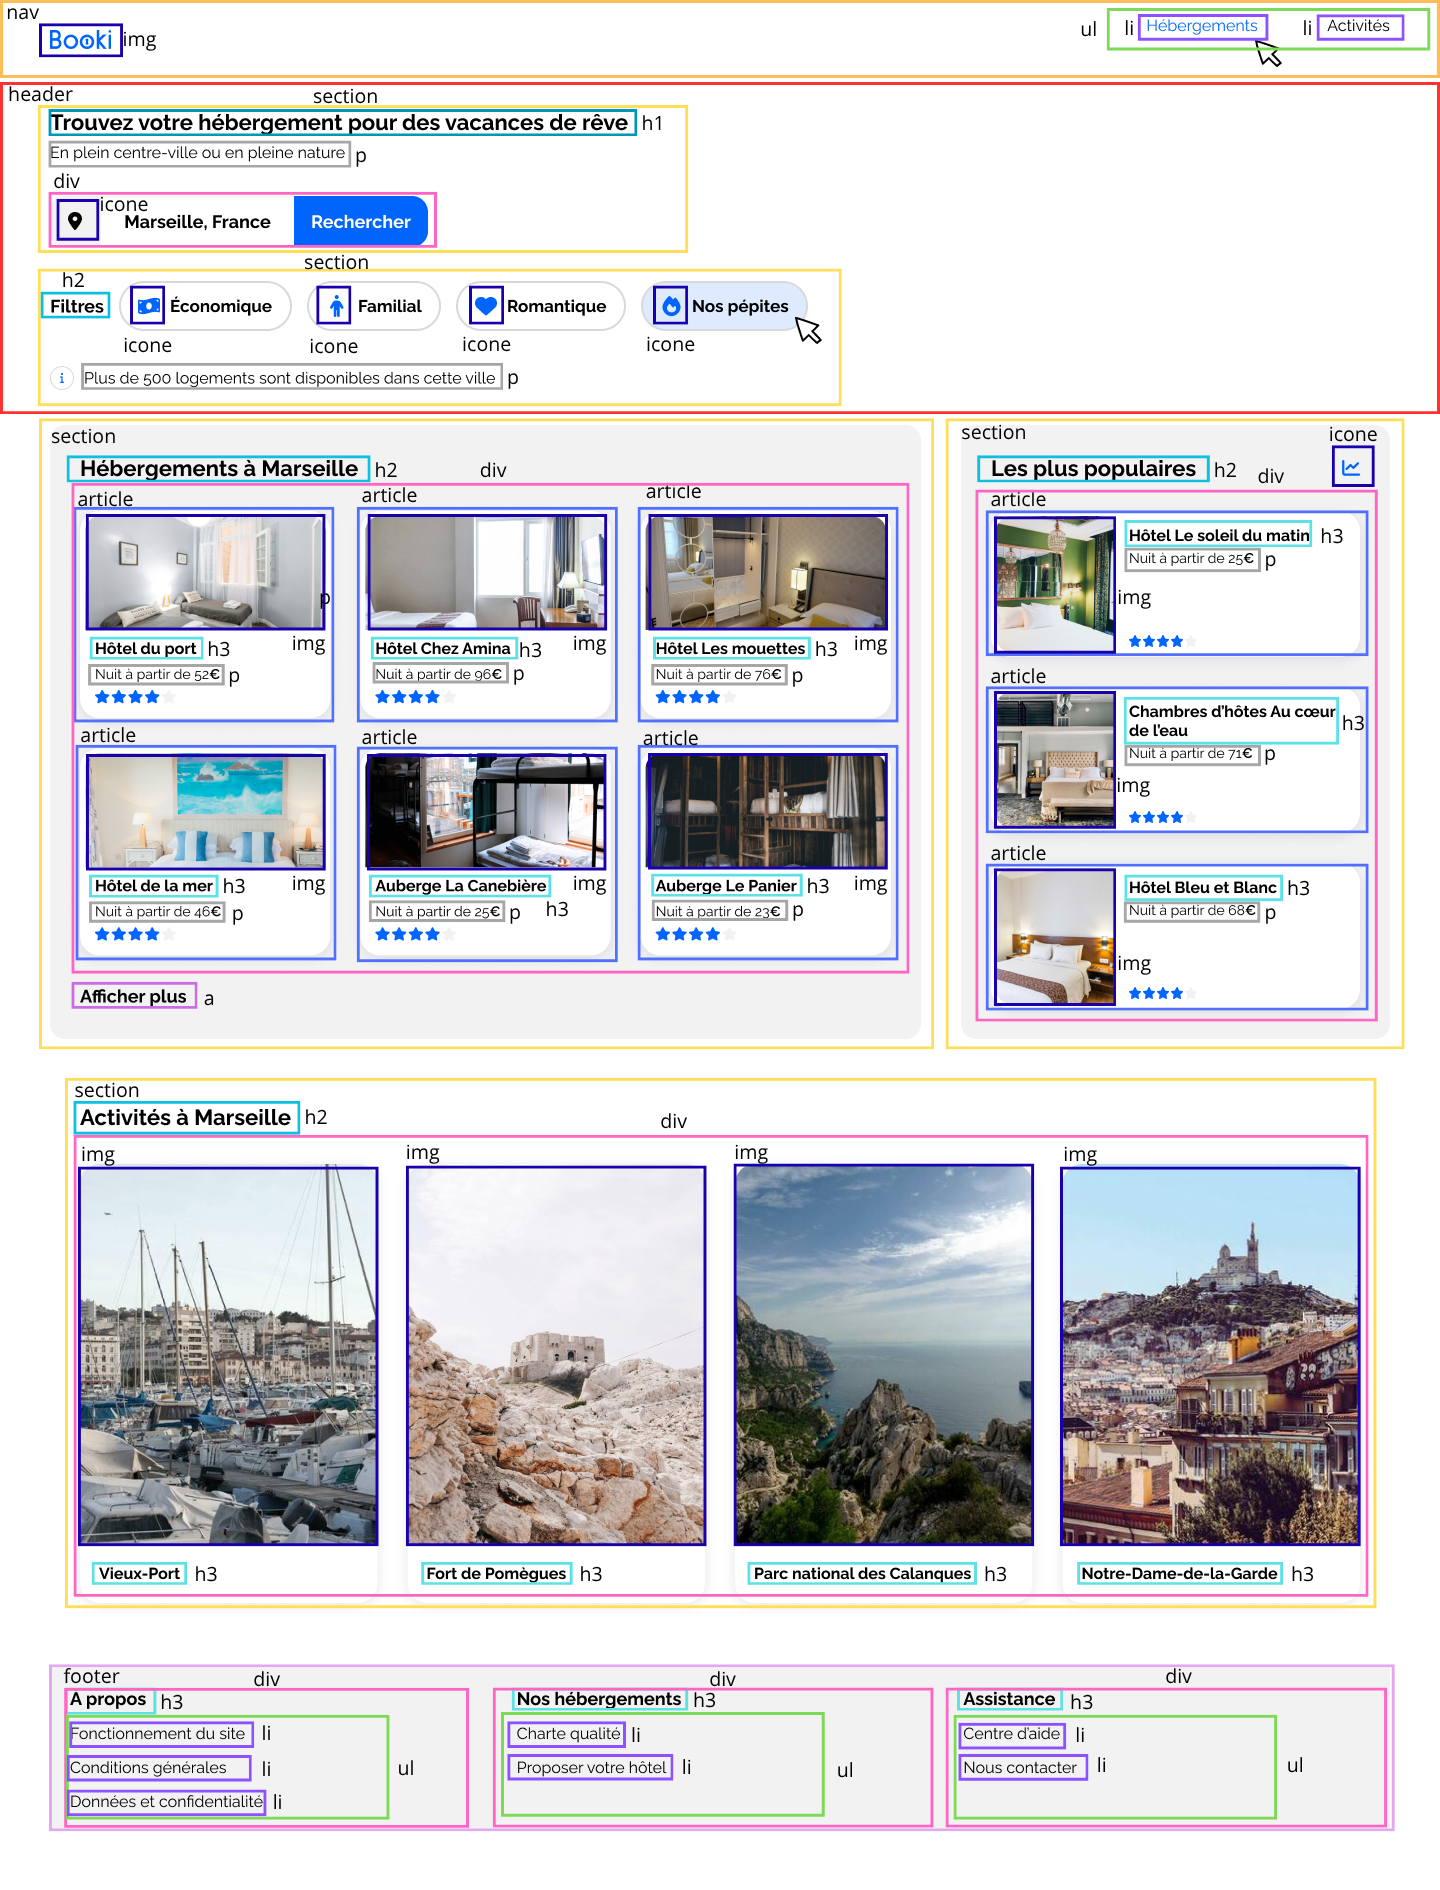
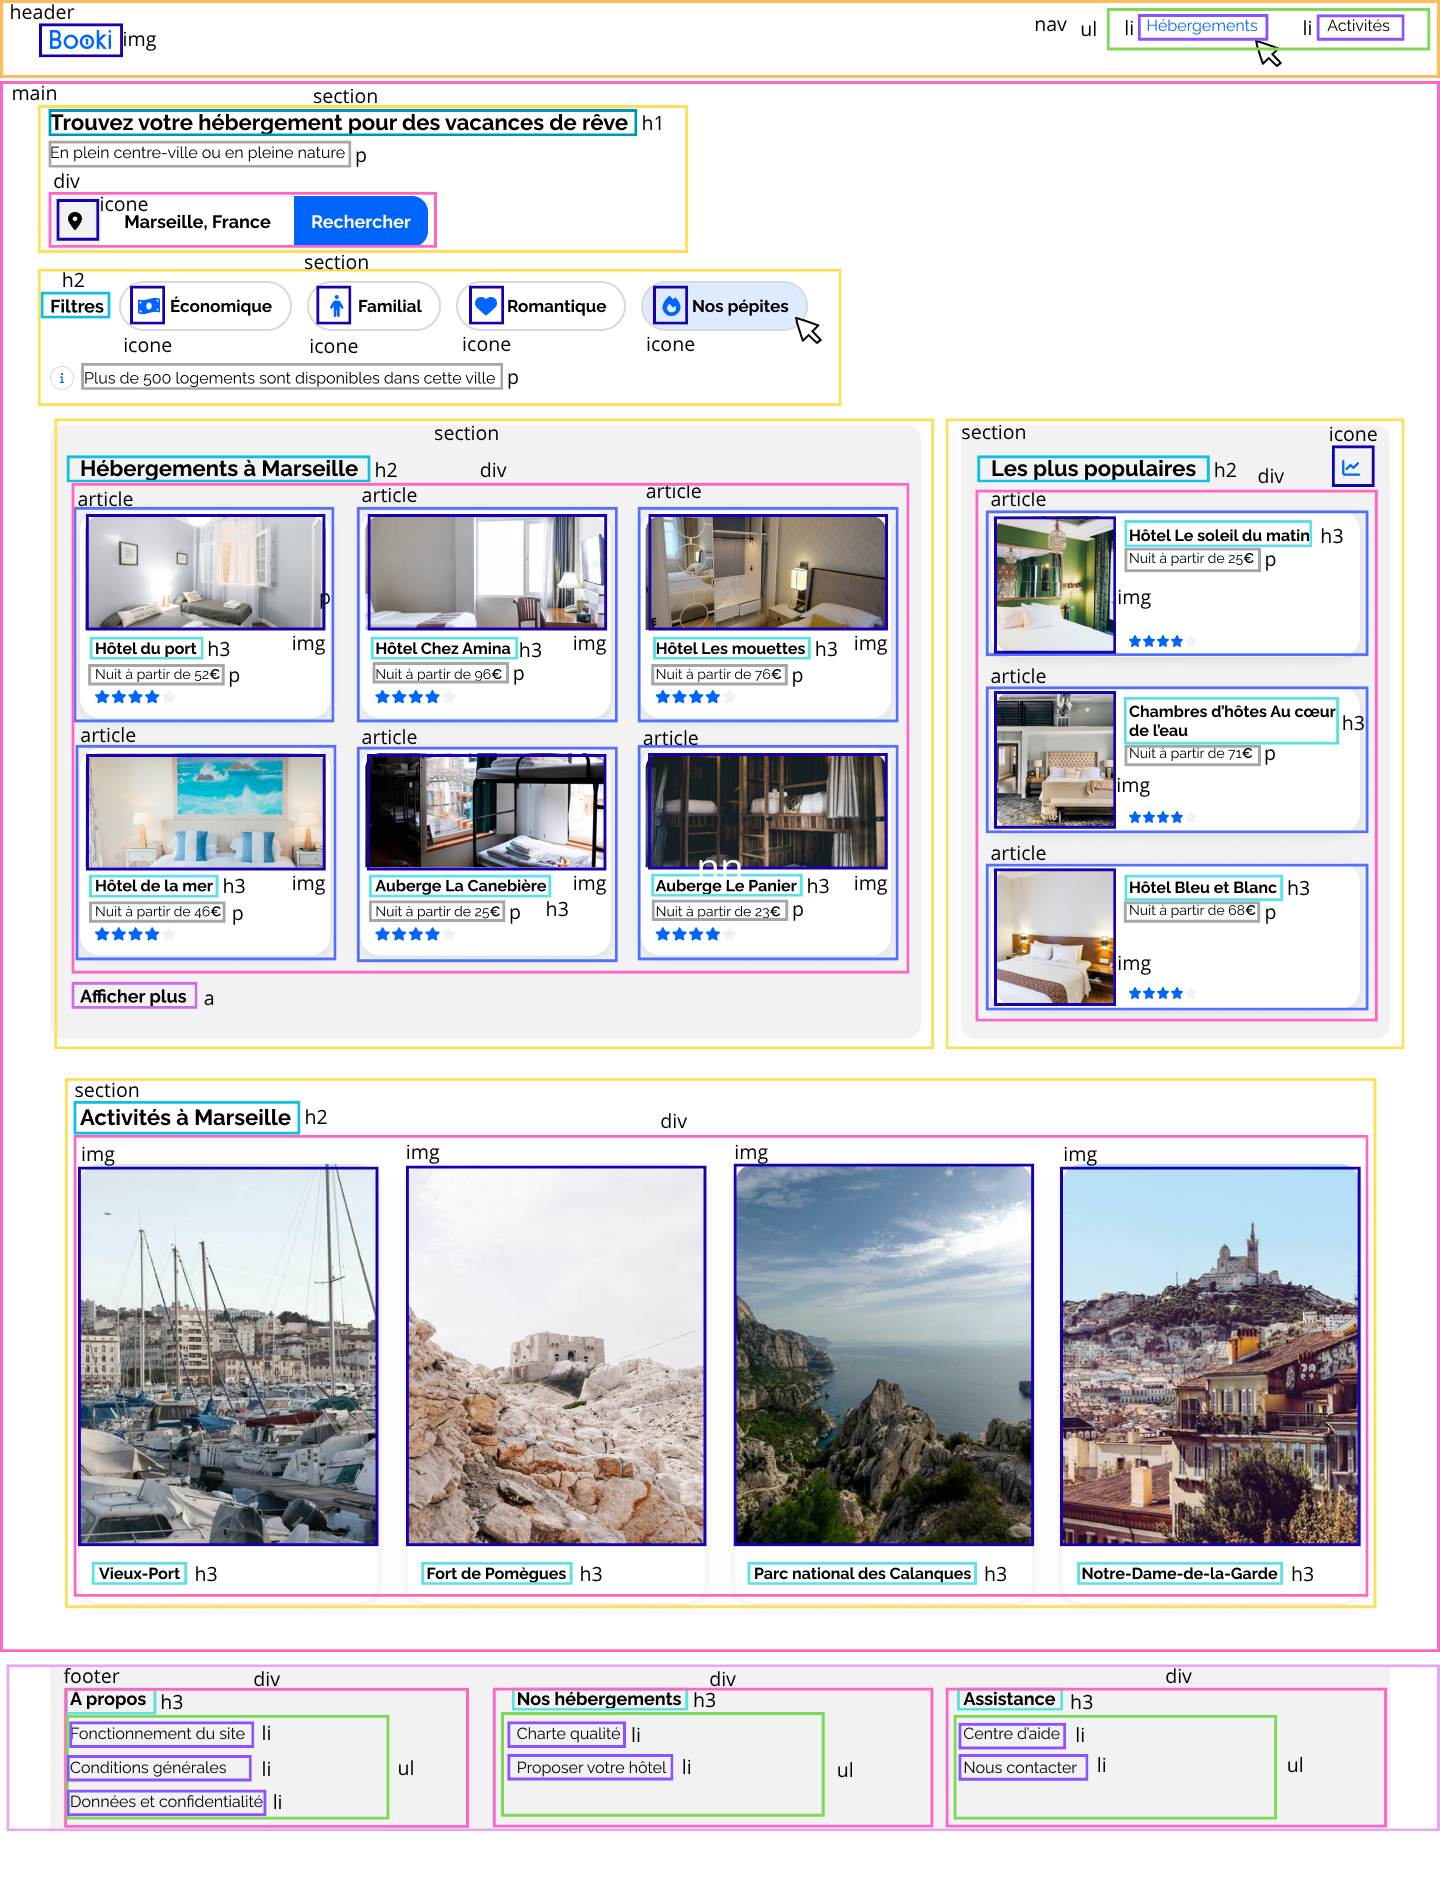
Ajout du header et du formulaire de recherche

diff --git a/css/style.css b/css/style.css
@@ -1,4 +1,5 @@
 /****** General ***********/
+
 * {
     font-family: 'Raleway', sans-serif;
 }
@@ -16,6 +17,7 @@
 body {
     display: flex;
     justify-content: center;
+    margin: 0;
 }
 
 .main-container {
@@ -55,7 +57,121 @@ a {
 }
 
 .neutral-star {
-    color: var(--main-bg-color)
+    color: var(--main-bg-color);
+}
+
+/****** Navigation ***********/
+#logo-booki {
+    height: 20px;
+    width: auto;
+}
+
+/* Structure du header */
+.nav {
+    display: flex;
+    justify-content: space-between;
+    align-items: center;
+    padding: 0px 10px;
+}
+
+/* Supprime les marges/paddings du ul */
+.nav-links {
+    list-style: none;
+    display: flex;
+    gap: 50px;
+    margin: 0px;
+    padding: 0px;
+}
+
+/* Style des liens */
+.nav-links a {
+    text-decoration: none;
+    color: black;
+    padding: 20px 0px;
+    display: block;
+    border-top: 2px solid transparent;
+}
+
+.nav-links a:hover {
+    color: var(--main-color);
+    border-top: 2px solid var(--main-color);
+}
+
+/****** Recherche ***********/
+
+.recherche {
+    display: flex;
+    flex-direction: column;
+    align-items: flex-start;
+    padding: 8px;
+}
+
+.recherche h1 {
+    font-size: 24px;
+    margin-bottom: 0px;
+}
+
+.recherche p {
+    margin-top: 10px;
+    padding: 2px;
+}
+
+.formulaire-recherche {
+    margin-top: 20px;
+    display: flex;
+    align-items: center;
+}
+
+.icone-recherche {
+    background-color: #F2F2F2;
+    padding: 12px 15px;
+    border-top-left-radius: 10px;
+    border-bottom-left-radius: 10px;
+    display: flex;
+    justify-content: center;
+    align-items: center;
+}
+
+.fa-location-dot {
+  color: #000;
+}
+
+.barre-de-recherche {
+    flex-grow: 1;
+    height: 40px;
+    display: flex;
+    align-items: center;
+    background-color: white;
+    padding: 0px;
+    box-sizing: border-box;
+    border-top: 1px solid #F2F2F2;
+    border-bottom: 1px solid #F2F2F2;
+}
+
+.barre-de-recherche input {
+    flex: 1;
+    border: none;
+    height: 35px;
+    padding: 0px;
+    font-size: 14px;
+    line-height: 40px;
+    text-align: center;
+}
+
+.bouton-rechercher {
+    background-color: var(--main-color);
+    color: white;
+    font-weight: 700;
+    border: none;
+    border-top-right-radius: 10px;
+    border-bottom-right-radius: 10px;
+    padding: 0px 20px;
+    height: 40px;
+    cursor: pointer;
+}
+
+.bouton-rechercher:hover {
+    background-color: #0050c5;
 }
 
 /****** Hebergements And Populaires ***********/

diff --git a/index.html b/index.html
@@ -27,9 +27,9 @@
 
         <!-- HEADER -->
         <header>
-            <nav>
-                <img src="./images/logo-booki.png" alt="Logo Booki">
-                <ul>
+            <nav class="nav">
+                <img src="./images/logo/Booki.png" alt="Logo Booki" id="logo-booki">
+                <ul class="nav-links">
                     <li><a href="#">Hébergements</a></li>
                     <li><a href="#">Activités</a></li>
                 </ul>
@@ -37,19 +37,25 @@
         </header>
 
         <main>
-
             <!-- SECTION RECHERCHE -->
             <section class="recherche">
+
                 <h1>Trouvez votre hébergement pour des vacances de rêve</h1>
                 <p>En plein centre-ville ou en pleine nature</p>
 
-                <form>
-                    <div class="barre de recherche">
+                <form action="#" method="get" class="formulaire-recherche">
+                    <div class="icone-recherche">
                         <i class="fa-solid fa-location-dot"></i>
-                        <input type="text" placeholder="Marseille, France">
-                        <button type="submit">Rechercher</button>
                     </div>
+
+                    <div class="barre-de-recherche">
+                        <label for="ville" class="sr-only">Ville</label>
+                        <input type="text" name="ville" id="ville" placeholder="Marseille, France" autofocus required>
+                    </div>
+
+                     <button type="submit" class="bouton-rechercher" aria-label="Lancer la recherche">Rechercher</button>
                 </form>
+
             </section>
 
             <!-- SECTION FILTRES -->
@@ -70,7 +76,7 @@
                     </button>
 
                     <button class="filtre">
-                        <i class="fa-solid fa-gem"></i> Nos pépites
+                        <i class="fa-solid fa-fire"></i> Nos pépites
                     </button>
                 </div>
 